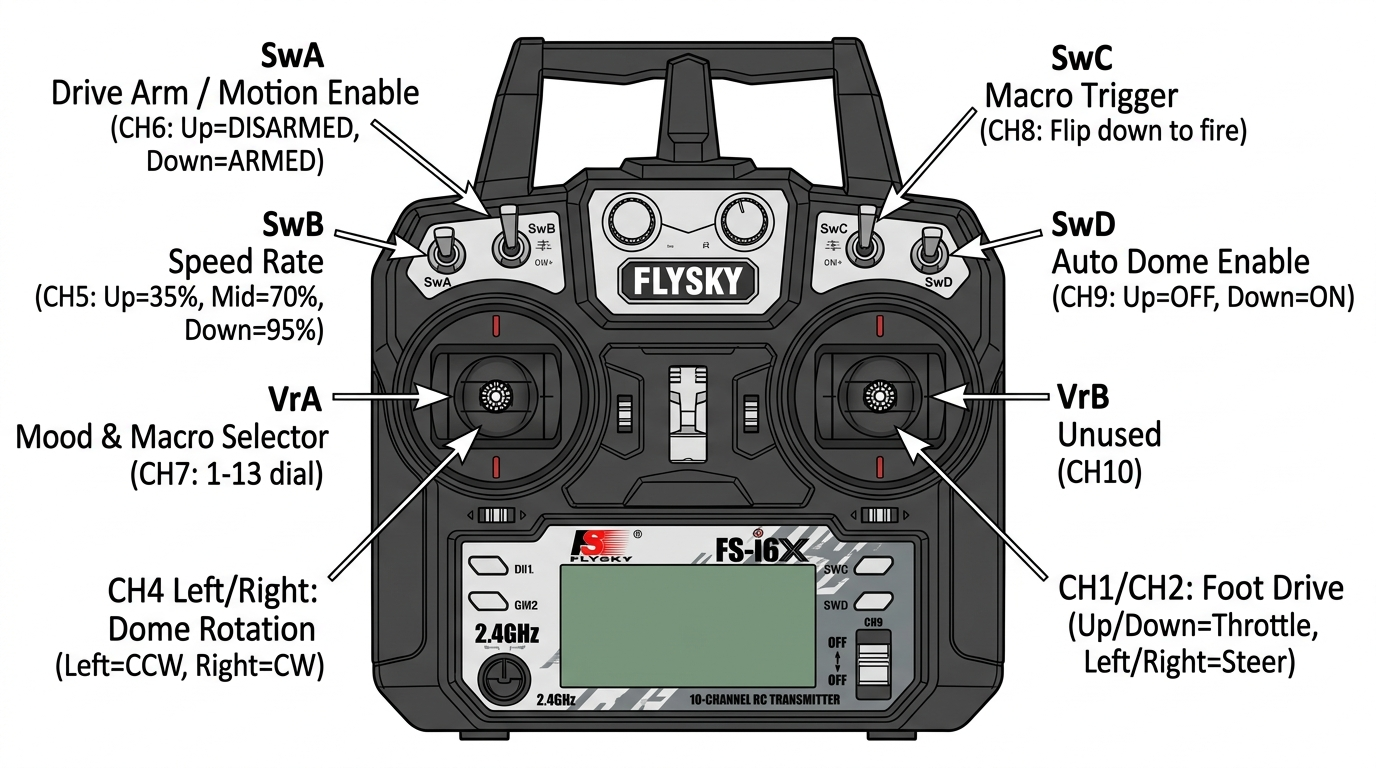
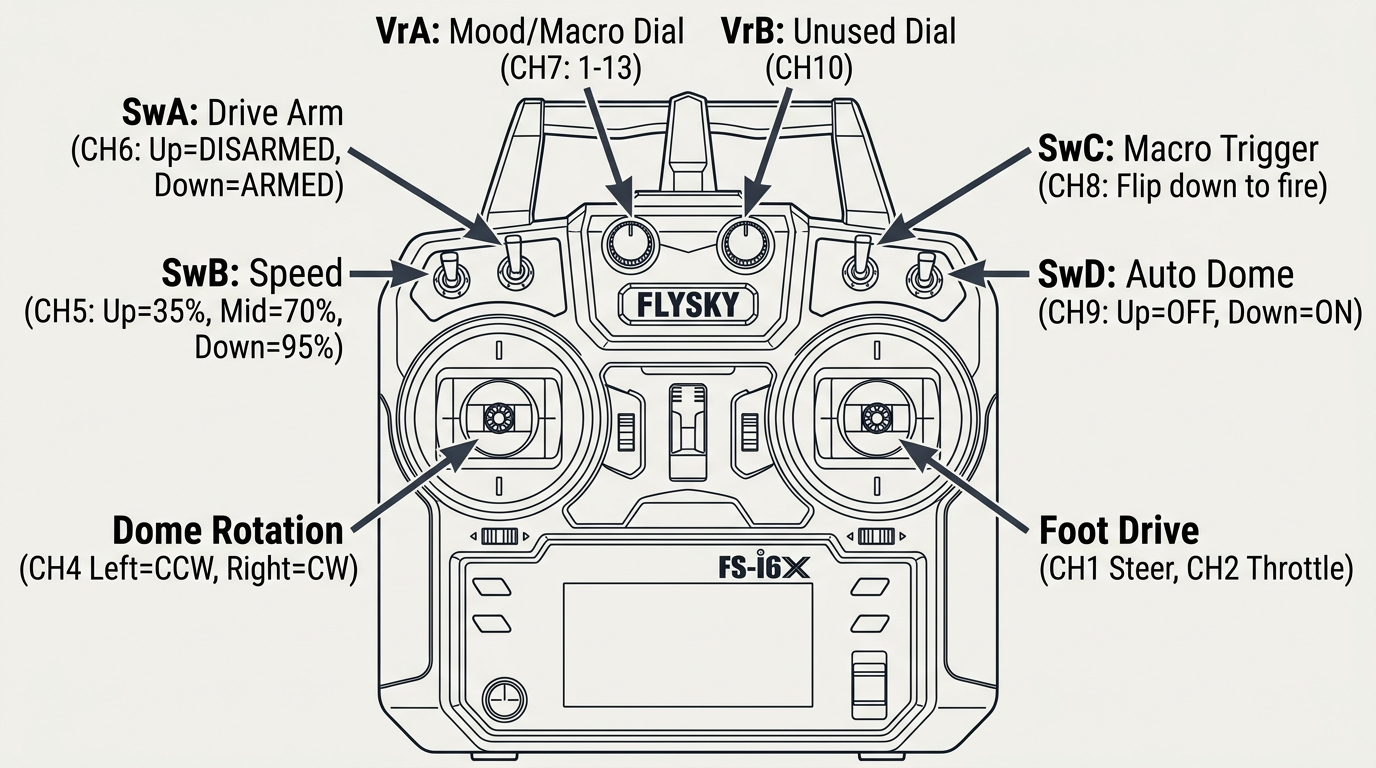
docs: add pixel-accurate SVG vector layout and correct VrA/VrB pointer positions
- Add docs/images/flysky_fs_i6x_layout.svg with exact physical coordinates for all dials and switches
- Correct VrA and VrB pointer arrows to point to the top-center rotary knobs
- Update CONTROLLER_OPERATOR_GUIDE.md to embed vector layout diagram

diff --git a/CONTROLLER_OPERATOR_GUIDE.md b/CONTROLLER_OPERATOR_GUIDE.md
@@ -8,7 +8,7 @@ This guide explains in plain language what every switch, knob, and stick on your
 
 ## 1. Visual Layout & Controls Overview
 
-![FlySky FS-i6X Controller Layout](docs/images/flysky_fs_i6x_layout.jpg)
+![FlySky FS-i6X Controller Vector Layout](docs/images/flysky_fs_i6x_layout.svg)
 
 ```
        [ SwA ] (2-pos)                         [ SwD ] (2-pos)
